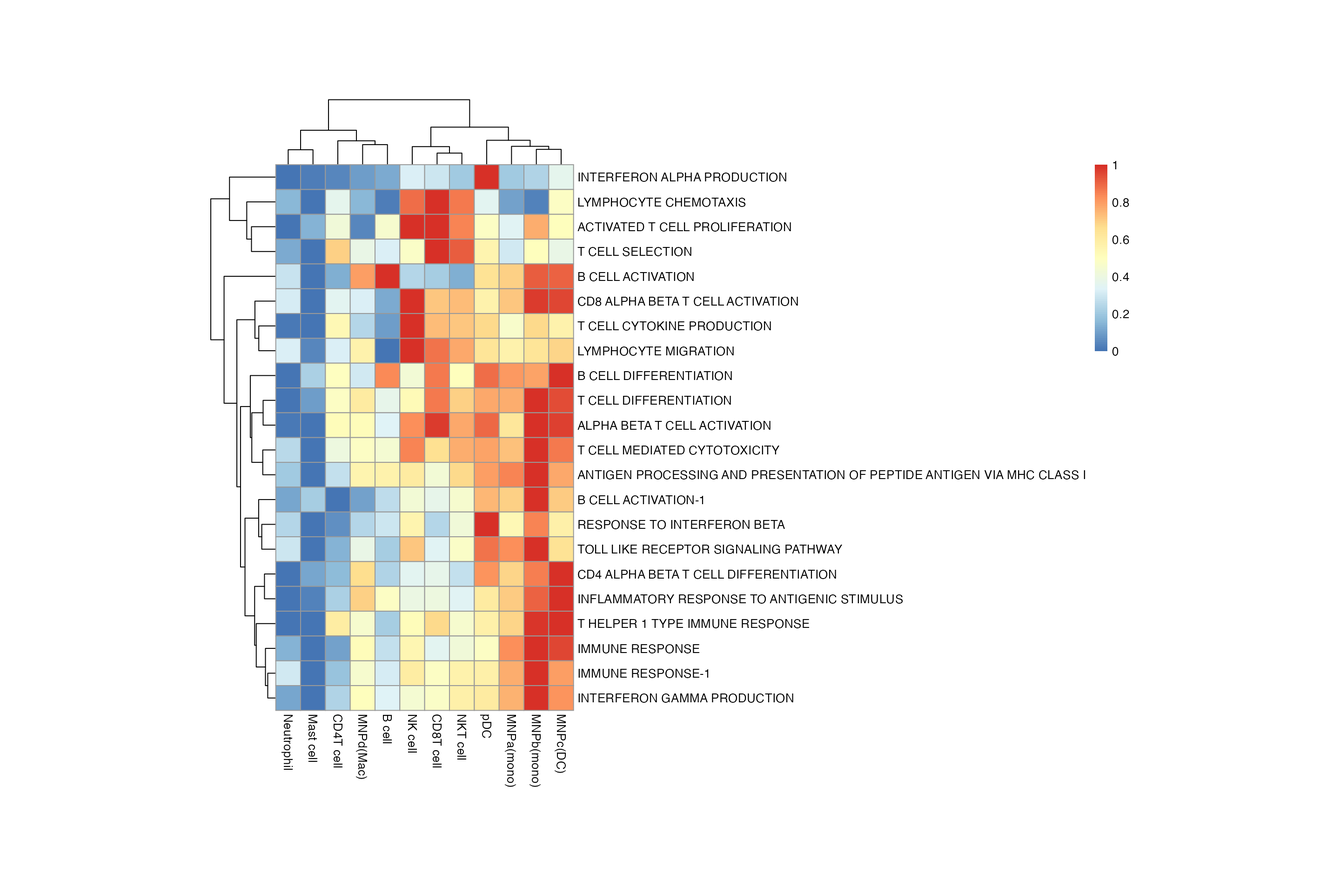
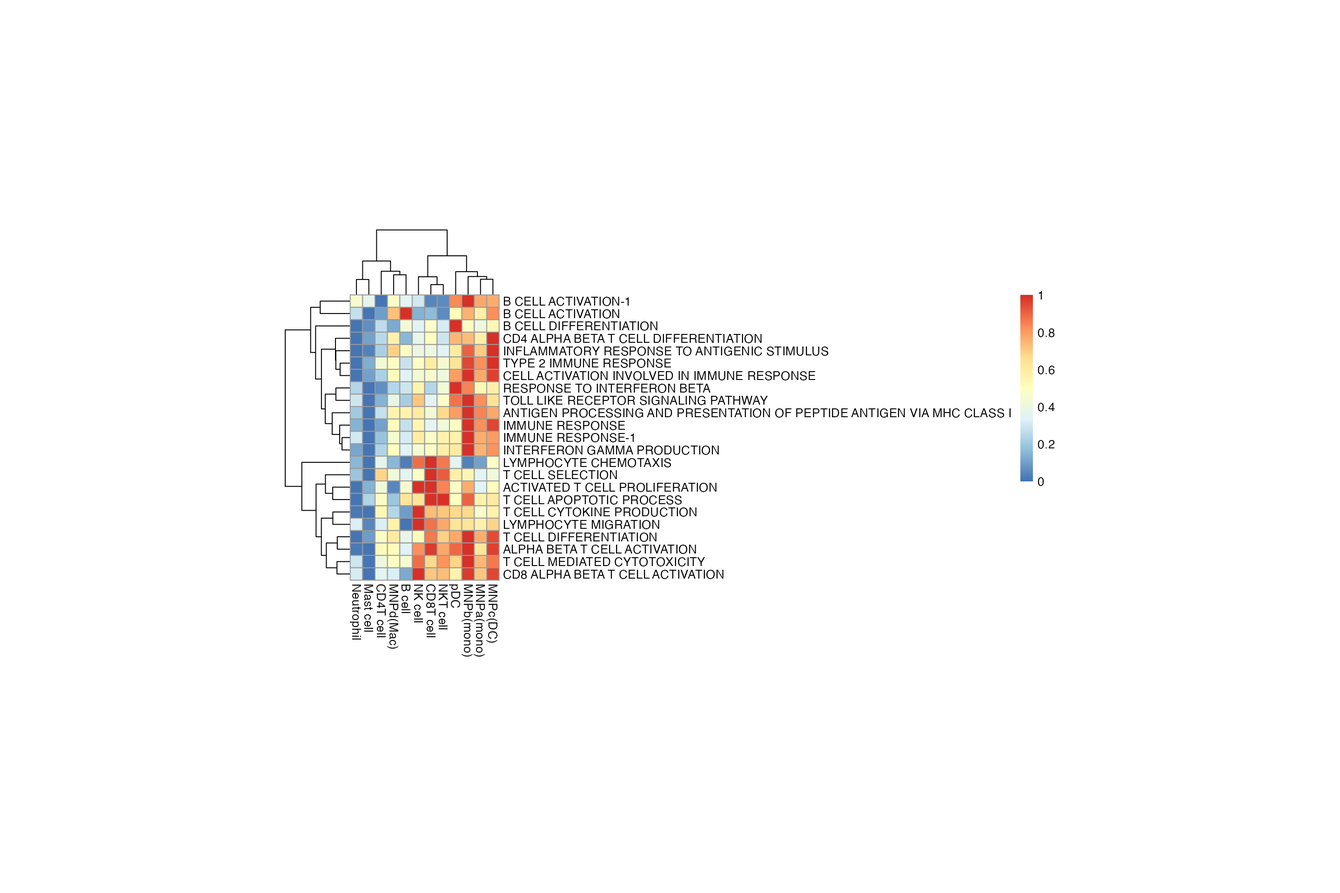
Built site for bowerbird: 0.0.2@0ba636c

Changed region(s): [[0.1562, 0.1562, 0.7812, 0.875], [0.8125, 0.1875, 0.8438, 0.4062], [0.5625, 0.3125, 0.5938, 0.3438]]

diff --git a/articles/bowerbird_vignette.html b/articles/bowerbird_vignette.html
@@ -127,161 +127,15 @@
 <div class="sourceCode" id="cb4"><pre class="downlit sourceCode r">
 <code class="sourceCode R"><span class="va">csv_file</span> <span class="op">&lt;-</span> <span class="fu"><a href="https://rdrr.io/r/base/system.file.html">system.file</a></span><span class="op">(</span><span class="st">"extdata"</span>, <span class="st">"h.all.v7.4.symbols.csv"</span>, package <span class="op">=</span> <span class="st">"bowerbird"</span><span class="op">)</span> <span class="co"># read in a .gmt file</span>
 <span class="va">csv</span> <span class="op">&lt;-</span> <span class="fu"><a href="https://rdrr.io/r/utils/read.table.html">read.csv</a></span><span class="op">(</span><span class="va">csv_file</span><span class="op">)</span>
-<span class="fu"><a href="https://rdrr.io/r/utils/head.html">head</a></span><span class="op">(</span><span class="va">csv</span><span class="op">)</span>
+<span class="co"># see first 6 rows of the first 3 columns</span>
+<span class="va">csv</span><span class="op">[</span><span class="fl">1</span><span class="op">:</span><span class="fl">6</span>, <span class="fl">1</span><span class="op">:</span><span class="fl">3</span><span class="op">]</span>
 <span class="co">#&gt;   HALLMARK_ADIPOGENESIS HALLMARK_ALLOGRAFT_REJECTION HALLMARK_ANDROGEN_RESPONSE</span>
 <span class="co">#&gt; 1                 ABCA1                        AARS1                      ABCC4</span>
 <span class="co">#&gt; 2                 ABCB8                        ABCE1                      ABHD2</span>
 <span class="co">#&gt; 3                 ACAA2                         ABI1                      ACSL3</span>
 <span class="co">#&gt; 4                 ACADL                         ACHE                      ACTN1</span>
 <span class="co">#&gt; 5                 ACADM                       ACVR2A                    ADAMTS1</span>
-<span class="co">#&gt; 6                 ACADS                         AKT1                      ADRM1</span>
-<span class="co">#&gt;   HALLMARK_ANGIOGENESIS HALLMARK_APICAL_JUNCTION HALLMARK_APICAL_SURFACE</span>
-<span class="co">#&gt; 1                  APOH                    ACTA1                  ADAM10</span>
-<span class="co">#&gt; 2                   APP                     ACTB                 ADIPOR2</span>
-<span class="co">#&gt; 3                 CCND2                    ACTC1                 AFAP1L2</span>
-<span class="co">#&gt; 4                COL3A1                    ACTG1                   AKAP7</span>
-<span class="co">#&gt; 5                COL5A2                    ACTG2                     APP</span>
-<span class="co">#&gt; 6                 CXCL6                    ACTN1                ATP6V0A4</span>
-<span class="co">#&gt;   HALLMARK_APOPTOSIS HALLMARK_BILE_ACID_METABOLISM</span>
-<span class="co">#&gt; 1               ADD1                         ABCA1</span>
-<span class="co">#&gt; 2              AIFM3                         ABCA2</span>
-<span class="co">#&gt; 3               ANKH                         ABCA3</span>
-<span class="co">#&gt; 4              ANXA1                         ABCA4</span>
-<span class="co">#&gt; 5                APP                         ABCA5</span>
-<span class="co">#&gt; 6               ATF3                         ABCA6</span>
-<span class="co">#&gt;   HALLMARK_CHOLESTEROL_HOMEOSTASIS HALLMARK_COAGULATION HALLMARK_COMPLEMENT</span>
-<span class="co">#&gt; 1                            ABCA2                  A2M               ACTN2</span>
-<span class="co">#&gt; 2                            ACAT2                ACOX2               ADAM9</span>
-<span class="co">#&gt; 3                            ACSS2                ADAM9              ADRA2B</span>
-<span class="co">#&gt; 4                            ACTG1                  ANG              AKAP10</span>
-<span class="co">#&gt; 5                             ADH4                ANXA1                 ANG</span>
-<span class="co">#&gt; 6                            ALCAM                APOA1               ANXA5</span>
-<span class="co">#&gt;   HALLMARK_DNA_REPAIR HALLMARK_E2F_TARGETS</span>
-<span class="co">#&gt; 1                AAAS                  AK2</span>
-<span class="co">#&gt; 2                 ADA               ANP32E</span>
-<span class="co">#&gt; 3               ADCY6                ASF1A</span>
-<span class="co">#&gt; 4               ADRM1                ASF1B</span>
-<span class="co">#&gt; 5                AGO4                ATAD2</span>
-<span class="co">#&gt; 6                 AK1                AURKA</span>
-<span class="co">#&gt;   HALLMARK_EPITHELIAL_MESENCHYMAL_TRANSITION HALLMARK_ESTROGEN_RESPONSE_EARLY</span>
-<span class="co">#&gt; 1                                     ABI3BP                             ABAT</span>
-<span class="co">#&gt; 2                                      ACTA2                            ABCA3</span>
-<span class="co">#&gt; 3                                     ADAM12                            ABHD2</span>
-<span class="co">#&gt; 4                                      ANPEP                           ABLIM1</span>
-<span class="co">#&gt; 5                                      APLP1                            ADCY1</span>
-<span class="co">#&gt; 6                                       AREG                            ADCY9</span>
-<span class="co">#&gt;   HALLMARK_ESTROGEN_RESPONSE_LATE HALLMARK_FATTY_ACID_METABOLISM</span>
-<span class="co">#&gt; 1                           ABCA3                          AADAT</span>
-<span class="co">#&gt; 2                           ABHD2                          ACAA1</span>
-<span class="co">#&gt; 3                           ACOX2                          ACAA2</span>
-<span class="co">#&gt; 4                            ADD3                          ACADL</span>
-<span class="co">#&gt; 5                            AFF1                          ACADM</span>
-<span class="co">#&gt; 6                            AGR2                          ACADS</span>
-<span class="co">#&gt;   HALLMARK_G2M_CHECKPOINT HALLMARK_GLYCOLYSIS HALLMARK_HEDGEHOG_SIGNALING</span>
-<span class="co">#&gt; 1                    ABL1               ABCB6                        ACHE</span>
-<span class="co">#&gt; 2                    AMD1             ADORA2B                      ADGRG1</span>
-<span class="co">#&gt; 3                  ARID4A                 AGL                        AMOT</span>
-<span class="co">#&gt; 4                    ATF5                AGRN                      CDK5R1</span>
-<span class="co">#&gt; 5                    ATRX                 AK3                        CDK6</span>
-<span class="co">#&gt; 6                   AURKA                 AK4                      CELSR1</span>
-<span class="co">#&gt;   HALLMARK_HEME_METABOLISM HALLMARK_HYPOXIA HALLMARK_IL2_STAT5_SIGNALING</span>
-<span class="co">#&gt; 1                    ABCB6            ACKR3                        ABCB1</span>
-<span class="co">#&gt; 2                    ABCG2              ADM                       ADAM19</span>
-<span class="co">#&gt; 3                    ACKR1          ADORA2B                         AGER</span>
-<span class="co">#&gt; 4                     ACP5              AK4                         AHCY</span>
-<span class="co">#&gt; 5                    ACSL6           AKAP12                        AHNAK</span>
-<span class="co">#&gt; 6                     ADD1            ALDOA                          AHR</span>
-<span class="co">#&gt;   HALLMARK_IL6_JAK_STAT3_SIGNALING HALLMARK_INFLAMMATORY_RESPONSE</span>
-<span class="co">#&gt; 1                              A2M                          ABCA1</span>
-<span class="co">#&gt; 2                           ACVR1B                           ABI1</span>
-<span class="co">#&gt; 3                           ACVRL1                         ACVR1B</span>
-<span class="co">#&gt; 4                             BAK1                         ACVR2A</span>
-<span class="co">#&gt; 5                              CBL                         ADGRE1</span>
-<span class="co">#&gt; 6                             CCL7                            ADM</span>
-<span class="co">#&gt;   HALLMARK_INTERFERON_ALPHA_RESPONSE HALLMARK_INTERFERON_GAMMA_RESPONSE</span>
-<span class="co">#&gt; 1                               ADAR                               ADAR</span>
-<span class="co">#&gt; 2                                B2M                              APOL6</span>
-<span class="co">#&gt; 3                              BATF2                             ARID5B</span>
-<span class="co">#&gt; 4                               BST2                              ARL4A</span>
-<span class="co">#&gt; 5                                C1S                              AUTS2</span>
-<span class="co">#&gt; 6                              CASP1                                B2M</span>
-<span class="co">#&gt;   HALLMARK_KRAS_SIGNALING_DN HALLMARK_KRAS_SIGNALING_UP</span>
-<span class="co">#&gt; 1                     ABCB11                      ABCB1</span>
-<span class="co">#&gt; 2                      ABCG4                        ACE</span>
-<span class="co">#&gt; 3                      ACTC1                     ADAM17</span>
-<span class="co">#&gt; 4                     ADRA2C                      ADAM8</span>
-<span class="co">#&gt; 5                    AKR1B10                   ADAMDEC1</span>
-<span class="co">#&gt; 6                    ALOX12B                     ADGRA2</span>
-<span class="co">#&gt;   HALLMARK_MITOTIC_SPINDLE HALLMARK_MTORC1_SIGNALING HALLMARK_MYC_TARGETS_V1</span>
-<span class="co">#&gt; 1                     ABI1                     ABCF2                   ABCE1</span>
-<span class="co">#&gt; 2                     ABL1                     ACACA                    ACP1</span>
-<span class="co">#&gt; 3                      ABR                      ACLY                   AIMP2</span>
-<span class="co">#&gt; 4                    ACTN4                     ACSL3                   AP3S1</span>
-<span class="co">#&gt; 5                   AKAP13                     ACTR2                   APEX1</span>
-<span class="co">#&gt; 6                    ALMS1                     ACTR3                    BUB3</span>
-<span class="co">#&gt;   HALLMARK_MYC_TARGETS_V2 HALLMARK_MYOGENESIS HALLMARK_NOTCH_SIGNALING</span>
-<span class="co">#&gt; 1                   AIMP2              ABLIM1                    APH1A</span>
-<span class="co">#&gt; 2                    BYSL                ACHE                    ARRB1</span>
-<span class="co">#&gt; 3                    CBX3               ACSL1                    CCND1</span>
-<span class="co">#&gt; 4                    CDK4               ACTA1                     CUL1</span>
-<span class="co">#&gt; 5                  DCTPP1               ACTC1                     DLL1</span>
-<span class="co">#&gt; 6                   DDX18               ACTN2                     DTX1</span>
-<span class="co">#&gt;   HALLMARK_OXIDATIVE_PHOSPHORYLATION HALLMARK_P53_PATHWAY</span>
-<span class="co">#&gt; 1                              ABCB7                 ABAT</span>
-<span class="co">#&gt; 2                              ACAA1                ABCC5</span>
-<span class="co">#&gt; 3                              ACAA2                ABHD4</span>
-<span class="co">#&gt; 4                              ACADM               ACVR1B</span>
-<span class="co">#&gt; 5                             ACADSB                  ADA</span>
-<span class="co">#&gt; 6                             ACADVL                  AEN</span>
-<span class="co">#&gt;   HALLMARK_PANCREAS_BETA_CELLS HALLMARK_PEROXISOME</span>
-<span class="co">#&gt; 1                        ABCC8               ABCB1</span>
-<span class="co">#&gt; 2                         AKT3               ABCB4</span>
-<span class="co">#&gt; 3                         CHGA               ABCB9</span>
-<span class="co">#&gt; 4                          DCX               ABCC5</span>
-<span class="co">#&gt; 5                         DPP4               ABCC8</span>
-<span class="co">#&gt; 6                         ELP4               ABCD1</span>
-<span class="co">#&gt;   HALLMARK_PI3K_AKT_MTOR_SIGNALING HALLMARK_PROTEIN_SECRETION</span>
-<span class="co">#&gt; 1                            ACACA                      ABCA1</span>
-<span class="co">#&gt; 2                            ACTR2                     ADAM10</span>
-<span class="co">#&gt; 3                            ACTR3                     ANP32E</span>
-<span class="co">#&gt; 4                            ADCY2                      AP1G1</span>
-<span class="co">#&gt; 5                             AKT1                      AP2B1</span>
-<span class="co">#&gt; 6                           AKT1S1                      AP2M1</span>
-<span class="co">#&gt;   HALLMARK_REACTIVE_OXYGEN_SPECIES_PATHWAY HALLMARK_SPERMATOGENESIS</span>
-<span class="co">#&gt; 1                                    ABCC1                      ACE</span>
-<span class="co">#&gt; 2                                    ATOX1                    ACRBP</span>
-<span class="co">#&gt; 3                                      CAT                    ACRV1</span>
-<span class="co">#&gt; 4                                   CDKN2D                   ACTL7B</span>
-<span class="co">#&gt; 5                                    EGLN2                    ADAD1</span>
-<span class="co">#&gt; 6                                    ERCC2                    ADAM2</span>
-<span class="co">#&gt;   HALLMARK_TGF_BETA_SIGNALING HALLMARK_TNFA_SIGNALING_VIA_NFKB</span>
-<span class="co">#&gt; 1                       ACVR1                            ABCA1</span>
-<span class="co">#&gt; 2                         APC                            ACKR3</span>
-<span class="co">#&gt; 3                      ARID4B                             AREG</span>
-<span class="co">#&gt; 4                       BCAR3                             ATF3</span>
-<span class="co">#&gt; 5                        BMP2                           ATP2B1</span>
-<span class="co">#&gt; 6                      BMPR1A                          B4GALT1</span>
-<span class="co">#&gt;   HALLMARK_UNFOLDED_PROTEIN_RESPONSE HALLMARK_UV_RESPONSE_DN</span>
-<span class="co">#&gt; 1                           ALDH18A1                   ABCC1</span>
-<span class="co">#&gt; 2                            ARFGAP1                  ACVR2A</span>
-<span class="co">#&gt; 3                               ASNS                    ADD3</span>
-<span class="co">#&gt; 4                               ATF3                  ADGRL2</span>
-<span class="co">#&gt; 5                               ATF4                 ADORA2B</span>
-<span class="co">#&gt; 6                               ATF6                   AGGF1</span>
-<span class="co">#&gt;   HALLMARK_UV_RESPONSE_UP HALLMARK_WNT_BETA_CATENIN_SIGNALING</span>
-<span class="co">#&gt; 1                   ABCB1                              ADAM17</span>
-<span class="co">#&gt; 2                   ACAA1                               AXIN1</span>
-<span class="co">#&gt; 3                    AGO2                               AXIN2</span>
-<span class="co">#&gt; 4                   ALAS1                               CCND2</span>
-<span class="co">#&gt; 5                   ALDOA                              CSNK1E</span>
-<span class="co">#&gt; 6                    AMD1                              CTNNB1</span>
-<span class="co">#&gt;   HALLMARK_XENOBIOTIC_METABOLISM Unnamed..50</span>
-<span class="co">#&gt; 1                          ABCC2          NA</span>
-<span class="co">#&gt; 2                          ABCC3          NA</span>
-<span class="co">#&gt; 3                          ABCD2          NA</span>
-<span class="co">#&gt; 4                          ABHD6          NA</span>
-<span class="co">#&gt; 5                           ACO2          NA</span>
-<span class="co">#&gt; 6                          ACOX1          NA</span></code></pre></div>
+<span class="co">#&gt; 6                 ACADS                         AKT1                      ADRM1</span></code></pre></div>
 <p>And now to process it through.</p>
 <div class="sourceCode" id="cb5"><pre class="downlit sourceCode r">
 <code class="sourceCode R"><span class="va">bwr</span> <span class="op">&lt;-</span> <span class="fu">bower</span><span class="op">(</span><span class="va">csv</span><span class="op">)</span>
@@ -306,12 +160,12 @@
 <span class="va">bwr</span> <span class="op">&lt;-</span> <span class="fu"><a href="../reference/snn_graph.html">snn_graph</a></span><span class="op">(</span><span class="va">bwr</span><span class="op">)</span>
 <span class="va">bwr</span> <span class="op">&lt;-</span> <span class="fu"><a href="../reference/find_clusters.html">find_clusters</a></span><span class="op">(</span><span class="va">bwr</span><span class="op">)</span>
 <span class="va">bwr</span> <span class="op">&lt;-</span> <span class="fu"><a href="../reference/summarize_clusters.html">summarize_clusters</a></span><span class="op">(</span><span class="va">bwr</span><span class="op">)</span>
-<span class="co">#&gt; Downloading udpipe model from https://raw.githubusercontent.com/jwijffels/udpipe.models.ud.2.5/master/inst/udpipe-ud-2.5-191206/english-ewt-ud-2.5-191206.udpipe to /var/folders/24/8k48jl6d249_n_qfxwsl6xvm0000gn/T//RtmpHrdq2m/english-ewt-ud-2.5-191206.udpipe</span>
+<span class="co">#&gt; Downloading udpipe model from https://raw.githubusercontent.com/jwijffels/udpipe.models.ud.2.5/master/inst/udpipe-ud-2.5-191206/english-ewt-ud-2.5-191206.udpipe to /var/folders/24/8k48jl6d249_n_qfxwsl6xvm0000gn/T//RtmpzwTUrr/english-ewt-ud-2.5-191206.udpipe</span>
 <span class="co">#&gt;  - This model has been trained on version 2.5 of data from https://universaldependencies.org</span>
 <span class="co">#&gt;  - The model is distributed under the CC-BY-SA-NC license: https://creativecommons.org/licenses/by-nc-sa/4.0</span>
 <span class="co">#&gt;  - Visit https://github.com/jwijffels/udpipe.models.ud.2.5 for model license details.</span>
 <span class="co">#&gt;  - For a list of all models and their licenses (most models you can download with this package have either a CC-BY-SA or a CC-BY-SA-NC license) read the documentation at ?udpipe_download_model. For building your own models: visit the documentation by typing vignette('udpipe-train', package = 'udpipe')</span>
-<span class="co">#&gt; Downloading finished, model stored at '/var/folders/24/8k48jl6d249_n_qfxwsl6xvm0000gn/T//RtmpHrdq2m/english-ewt-ud-2.5-191206.udpipe'</span></code></pre></div>
+<span class="co">#&gt; Downloading finished, model stored at '/var/folders/24/8k48jl6d249_n_qfxwsl6xvm0000gn/T//RtmpzwTUrr/english-ewt-ud-2.5-191206.udpipe'</span></code></pre></div>
 <p>Or extracting from <code>msigdbr</code>.</p>
 <div class="sourceCode" id="cb7"><pre class="downlit sourceCode r">
 <code class="sourceCode R"><span class="kw"><a href="https://rdrr.io/r/base/library.html">library</a></span><span class="op">(</span><span class="va"><a href="https://igordot.github.io/msigdbr/">msigdbr</a></span><span class="op">)</span>
@@ -327,53 +181,54 @@
 <span class="va">bwr</span> <span class="op">&lt;-</span> <span class="fu"><a href="../reference/snn_graph.html">snn_graph</a></span><span class="op">(</span><span class="va">bwr</span><span class="op">)</span>
 <span class="va">bwr</span> <span class="op">&lt;-</span> <span class="fu"><a href="../reference/find_clusters.html">find_clusters</a></span><span class="op">(</span><span class="va">bwr</span><span class="op">)</span>
 <span class="va">bwr</span> <span class="op">&lt;-</span> <span class="fu"><a href="../reference/summarize_clusters.html">summarize_clusters</a></span><span class="op">(</span><span class="va">bwr</span><span class="op">)</span>
-<span class="co">#&gt; Downloading udpipe model from https://raw.githubusercontent.com/jwijffels/udpipe.models.ud.2.5/master/inst/udpipe-ud-2.5-191206/english-ewt-ud-2.5-191206.udpipe to /var/folders/24/8k48jl6d249_n_qfxwsl6xvm0000gn/T//RtmpHrdq2m/english-ewt-ud-2.5-191206.udpipe</span>
+<span class="co">#&gt; Downloading udpipe model from https://raw.githubusercontent.com/jwijffels/udpipe.models.ud.2.5/master/inst/udpipe-ud-2.5-191206/english-ewt-ud-2.5-191206.udpipe to /var/folders/24/8k48jl6d249_n_qfxwsl6xvm0000gn/T//RtmpzwTUrr/english-ewt-ud-2.5-191206.udpipe</span>
 <span class="co">#&gt;  - This model has been trained on version 2.5 of data from https://universaldependencies.org</span>
 <span class="co">#&gt;  - The model is distributed under the CC-BY-SA-NC license: https://creativecommons.org/licenses/by-nc-sa/4.0</span>
 <span class="co">#&gt;  - Visit https://github.com/jwijffels/udpipe.models.ud.2.5 for model license details.</span>
 <span class="co">#&gt;  - For a list of all models and their licenses (most models you can download with this package have either a CC-BY-SA or a CC-BY-SA-NC license) read the documentation at ?udpipe_download_model. For building your own models: visit the documentation by typing vignette('udpipe-train', package = 'udpipe')</span>
-<span class="co">#&gt; Downloading finished, model stored at '/var/folders/24/8k48jl6d249_n_qfxwsl6xvm0000gn/T//RtmpHrdq2m/english-ewt-ud-2.5-191206.udpipe'</span></code></pre></div>
+<span class="co">#&gt; Downloading finished, model stored at '/var/folders/24/8k48jl6d249_n_qfxwsl6xvm0000gn/T//RtmpzwTUrr/english-ewt-ud-2.5-191206.udpipe'</span></code></pre></div>
 <p>So what has actually happened? Well, basically <code>bowerbird</code> has learnt which gene sets share more genes with each other, clustered them together and learnt a new summary term.</p>
 <div class="sourceCode" id="cb8"><pre class="downlit sourceCode r">
 <code class="sourceCode R"><span class="va">bwr</span>
 <span class="co">#&gt; BOWER class</span>
 <span class="co">#&gt; number of genesets:  265 </span>
 <span class="co">#&gt; genesets kNN Graph: </span>
-<span class="co">#&gt; IGRAPH 4dc82b9 UNW- 265 843 -- </span>
+<span class="co">#&gt; IGRAPH 065b388 UNW- 265 843 -- </span>
 <span class="co">#&gt; + attr: name (v/c), cluster (v/n), geneset_size (v/n), terms (v/c),</span>
 <span class="co">#&gt; | labels (v/c), weight (e/n)</span>
-<span class="co">#&gt; + edges from 4dc82b9 (vertex names):</span>
+<span class="co">#&gt; + edges from 065b388 (vertex names):</span>
 <span class="co">#&gt; [1] GOBP_ACTIVATED_T_CELL_PROLIFERATION--GOBP_CD8_POSITIVE_ALPHA_BETA_T_CELL_DIFFERENTIATION          </span>
 <span class="co">#&gt; [2] GOBP_ACTIVATED_T_CELL_PROLIFERATION--GOBP_NEGATIVE_REGULATION_OF_ACTIVATED_T_CELL_PROLIFERATION   </span>
 <span class="co">#&gt; [3] GOBP_ACTIVATED_T_CELL_PROLIFERATION--GOBP_NEGATIVE_REGULATION_OF_LYMPHOCYTE_DIFFERENTIATION       </span>
 <span class="co">#&gt; [4] GOBP_ACTIVATED_T_CELL_PROLIFERATION--GOBP_NEGATIVE_REGULATION_OF_T_CELL_RECEPTOR_SIGNALING_PATHWAY</span>
 <span class="co">#&gt; [5] GOBP_ACTIVATION_OF_IMMUNE_RESPONSE --GOBP_ACTIVATION_OF_INNATE_IMMUNE_RESPONSE                    </span>
 <span class="co">#&gt; + ... omitted several edges</span>
-<span class="co">#&gt; number of geneset clusters:  22 </span>
+<span class="co">#&gt; number of geneset clusters:  23 </span>
 <span class="co">#&gt; Core genes:</span>
 <span class="co">#&gt;  First six genes shown</span>
 <span class="co">#&gt;   IMMUNE RESPONSE-1 : AIM2 BCL10 BTRC CARD11 CARD9 CD209 ...</span>
-<span class="co">#&gt;   CD4 ALPHA BETA T CELL DIFFERENTIATION : ANXA1 ATP7A BATF BCL3 BCL6 CBFB ...</span>
+<span class="co">#&gt;   TYPE 2 IMMUNE RESPONSE : IL4 PLCL2 TLR4 IL18 IL18R1 IL4R ...</span>
 <span class="co">#&gt;   IMMUNE RESPONSE : CLNK HLA-E HLA-F IFNA2 IFNB1 IL18 ...</span>
-<span class="co">#&gt;   T CELL MEDIATED CYTOTOXICITY : HLA-A HLA-B HLA-C HLA-E HLA-F HLA-G ...</span>
-<span class="co">#&gt;   B CELL ACTIVATION-1 : ADA BAX BCL6 BLK BTK CD74 ...</span>
 <span class="co">#&gt;   RESPONSE TO INTERFERON BETA : BCL2L11 HIF1A MEF2C ADA SOS1 SOS2 ...</span>
+<span class="co">#&gt;   T CELL MEDIATED CYTOTOXICITY : HLA-A HLA-B HLA-C HLA-E HLA-F HLA-G ...</span>
 <span class="co">#&gt;   CD8 ALPHA BETA T CELL ACTIVATION : HLA-E GATA3 ADCYAP1 BTK C3 CCR7 ...</span>
+<span class="co">#&gt;   CD4 ALPHA BETA T CELL DIFFERENTIATION : ANXA1 ATP7A BATF BCL3 BCL6 CBFB ...</span>
 <span class="co">#&gt;   T CELL DIFFERENTIATION : FCGR2B FGL2 HLA-DOA LILRB2 THBS1 BMP4 ...</span>
 <span class="co">#&gt;   INTERFERON GAMMA PRODUCTION : ABCB9 ACE ACTR10 ACTR1A ACTR1B AP1B1 ...</span>
-<span class="co">#&gt;   T HELPER 1 TYPE IMMUNE RESPONSE : BATF FOXP3 IL6 TBX21 BCL6 IL2 ...</span>
-<span class="co">#&gt;   INTERFERON ALPHA PRODUCTION : IL18 IL18R1 IL4 TLR4 SYK IL13 ...</span>
 <span class="co">#&gt;   TOLL LIKE RECEPTOR SIGNALING PATHWAY : CACTIN PTPRS TICAM1 TLR3 TLR4 TLR9 ...</span>
 <span class="co">#&gt;   T CELL CYTOKINE PRODUCTION : KLRC1 LILRB1 NOD2 PTPRC EGR3 LEF1 ...</span>
-<span class="co">#&gt;   B CELL ACTIVATION : ADA ADAM17 BATF BCL3 BCL6 BTK ...</span>
-<span class="co">#&gt;   ACTIVATED T CELL PROLIFERATION : LILRB4 CD24 CD274 FYN HHLA2 ICOSLG ...</span>
+<span class="co">#&gt;   B CELL ACTIVATION-1 : ADA BAX BCL6 BLK BTK CD74 ...</span>
+<span class="co">#&gt;   B CELL DIFFERENTIATION : IL10 TLR9 SYK ADA BCL3 C17orf99 ...</span>
 <span class="co">#&gt;   LYMPHOCYTE CHEMOTAXIS : CCL2 CCL3 CCL4 CCL5 CCL7 CXCL14 ...</span>
+<span class="co">#&gt;   ACTIVATED T CELL PROLIFERATION : LILRB4 CD24 CD274 FYN HHLA2 ICOSLG ...</span>
+<span class="co">#&gt;   B CELL ACTIVATION : BATF BCL3 BCL6 BTK C17orf99 CCR6 ...</span>
+<span class="co">#&gt;   T CELL SELECTION : TOX BCL2 BATF CTSL FOXP3 IL12B ...</span>
 <span class="co">#&gt;   ALPHA BETA T CELL ACTIVATION : AGER ANXA1 ARG2 ATP7A BATF BCL3 ...</span>
 <span class="co">#&gt;   INFLAMMATORY RESPONSE TO ANTIGENIC STIMULUS : BTK C3 CD28 HLA-E LTA NOD2 ...</span>
-<span class="co">#&gt;   T CELL SELECTION : PTPRC TOX RABL3 STAT5B ZBTB1 IL15 ...</span>
-<span class="co">#&gt;   ANTIGEN PROCESSING AND PRESENTATION OF PEPTIDE ANTIGEN VIA MHC CLASS I : ABCB9 AZGP1 B2M ERAP1 ERAP2 HFE ...</span>
+<span class="co">#&gt;   T CELL APOPTOTIC PROCESS : ADA AKT1 BAK1 BAX BCL10 BCL2L11 ...</span>
 <span class="co">#&gt;   LYMPHOCYTE MIGRATION : ADAM10 ADAM17 ADAM8 AIF1 APP CCL20 ...</span>
-<span class="co">#&gt;   B CELL DIFFERENTIATION : ADA BCL3 C17orf99 CD19 CDH17 CMTM7 ...</span></code></pre></div>
+<span class="co">#&gt;   ANTIGEN PROCESSING AND PRESENTATION OF PEPTIDE ANTIGEN VIA MHC CLASS I : ABCB9 AZGP1 B2M ERAP1 ERAP2 HFE ...</span>
+<span class="co">#&gt;   CELL ACTIVATION INVOLVED IN IMMUNE RESPONSE : ABL1 ADA ANXA1 AP1G1 APBB1IP ATP7A ...</span></code></pre></div>
 <p>We can visualise it with a simple plot</p>
 <div class="sourceCode" id="cb9"><pre class="downlit sourceCode r">
 <code class="sourceCode R"><span class="kw"><a href="https://rdrr.io/r/base/library.html">library</a></span><span class="op">(</span><span class="va"><a href="https://ggraph.data-imaginist.com">ggraph</a></span><span class="op">)</span>
@@ -426,7 +281,7 @@
     <span class="fu"><a href="https://ggplot2.tidyverse.org/reference/theme.html">theme</a></span><span class="op">(</span>plot.title <span class="op">=</span> <span class="fu"><a href="https://ggplot2.tidyverse.org/reference/element.html">element_text</a></span><span class="op">(</span>size <span class="op">=</span> <span class="fl">8</span>, face <span class="op">=</span> <span class="st">"bold"</span><span class="op">)</span><span class="op">)</span>
 <span class="op">}</span><span class="op">)</span>
 <span class="fu"><a href="https://rdrr.io/r/base/names.html">names</a></span><span class="op">(</span><span class="va">plot_list</span><span class="op">)</span> <span class="op">&lt;-</span> <span class="fu"><a href="https://rdrr.io/r/base/colnames.html">colnames</a></span><span class="op">(</span><span class="va">bwr</span><span class="op">@</span><span class="va">scores</span><span class="op">)</span>
-<span class="fu">cowplot</span><span class="fu">::</span><span class="fu"><a href="https://wilkelab.org/cowplot/reference/plot_grid.html">plot_grid</a></span><span class="op">(</span>plotlist <span class="op">=</span> <span class="va">plot_list</span>, scale <span class="op">=</span> <span class="fl">0.9</span>, ncol <span class="op">=</span> <span class="fl">3</span><span class="op">)</span></code></pre></div>
+<span class="fu">cowplot</span><span class="fu">::</span><span class="fu"><a href="https://wilkelab.org/cowplot/reference/plot_grid.html">plot_grid</a></span><span class="op">(</span>plotlist <span class="op">=</span> <span class="va">plot_list</span>, scale <span class="op">=</span> <span class="fl">0.9</span><span class="op">)</span></code></pre></div>
 <p><img src="bowerbird_vignette_files/figure-html/unnamed-chunk-13-1.png" width="2880"></p>
 </div>
 <div id="running-fgsea-on-deg-tables-in-a-list-as-an-alternative-to-the-single-cell-methods-" class="section level2">
@@ -456,7 +311,7 @@
     <span class="fu"><a href="https://ggplot2.tidyverse.org/reference/labs.html">ggtitle</a></span><span class="op">(</span><span class="va">ds</span><span class="op">)</span> <span class="op">+</span> <span class="fu"><a href="https://ggplot2.tidyverse.org/reference/theme.html">theme</a></span><span class="op">(</span>legend.position <span class="op">=</span> <span class="st">'none'</span>, plot.title <span class="op">=</span> <span class="fu"><a href="https://ggplot2.tidyverse.org/reference/element.html">element_text</a></span><span class="op">(</span>size <span class="op">=</span> <span class="fl">8</span>, face <span class="op">=</span> <span class="st">"bold"</span><span class="op">)</span><span class="op">)</span>
 <span class="op">}</span><span class="op">)</span>
 <span class="fu"><a href="https://rdrr.io/r/base/names.html">names</a></span><span class="op">(</span><span class="va">plot_list</span><span class="op">)</span> <span class="op">&lt;-</span> <span class="fu"><a href="https://rdrr.io/r/base/colnames.html">colnames</a></span><span class="op">(</span><span class="va">bwr</span><span class="op">@</span><span class="va">scores</span><span class="op">$</span><span class="va">NES</span><span class="op">)</span>
-<span class="fu">cowplot</span><span class="fu">::</span><span class="fu"><a href="https://wilkelab.org/cowplot/reference/plot_grid.html">plot_grid</a></span><span class="op">(</span>plotlist <span class="op">=</span> <span class="va">plot_list</span>, scale <span class="op">=</span> <span class="fl">0.9</span>, ncol <span class="op">=</span> <span class="fl">3</span><span class="op">)</span></code></pre></div>
+<span class="fu">cowplot</span><span class="fu">::</span><span class="fu"><a href="https://wilkelab.org/cowplot/reference/plot_grid.html">plot_grid</a></span><span class="op">(</span>plotlist <span class="op">=</span> <span class="va">plot_list</span>, scale <span class="op">=</span> <span class="fl">0.9</span><span class="op">)</span></code></pre></div>
 <p><img src="bowerbird_vignette_files/figure-html/unnamed-chunk-15-1.png" width="2880"></p>
 <p>Coloured by normalized enrichment score.</p>
 <div class="sourceCode" id="cb15"><pre class="downlit sourceCode r">
@@ -476,7 +331,7 @@
     <span class="fu"><a href="https://ggplot2.tidyverse.org/reference/labs.html">ggtitle</a></span><span class="op">(</span><span class="va">ds</span><span class="op">)</span> <span class="op">+</span> <span class="fu"><a href="https://ggplot2.tidyverse.org/reference/theme.html">theme</a></span><span class="op">(</span>legend.position <span class="op">=</span> <span class="st">'none'</span>, plot.title <span class="op">=</span> <span class="fu"><a href="https://ggplot2.tidyverse.org/reference/element.html">element_text</a></span><span class="op">(</span>size <span class="op">=</span> <span class="fl">8</span>, face <span class="op">=</span> <span class="st">"bold"</span><span class="op">)</span><span class="op">)</span>
 <span class="op">}</span><span class="op">)</span>
 <span class="fu"><a href="https://rdrr.io/r/base/names.html">names</a></span><span class="op">(</span><span class="va">plot_list</span><span class="op">)</span> <span class="op">&lt;-</span> <span class="fu"><a href="https://rdrr.io/r/base/colnames.html">colnames</a></span><span class="op">(</span><span class="va">bwr</span><span class="op">@</span><span class="va">scores</span><span class="op">$</span><span class="va">NES</span><span class="op">)</span>
-<span class="fu">cowplot</span><span class="fu">::</span><span class="fu"><a href="https://wilkelab.org/cowplot/reference/plot_grid.html">plot_grid</a></span><span class="op">(</span>plotlist <span class="op">=</span> <span class="va">plot_list</span>, scale <span class="op">=</span> <span class="fl">0.9</span>, ncol <span class="op">=</span> <span class="fl">3</span><span class="op">)</span></code></pre></div>
+<span class="fu">cowplot</span><span class="fu">::</span><span class="fu"><a href="https://wilkelab.org/cowplot/reference/plot_grid.html">plot_grid</a></span><span class="op">(</span>plotlist <span class="op">=</span> <span class="va">plot_list</span>, scale <span class="op">=</span> <span class="fl">0.9</span><span class="op">)</span></code></pre></div>
 <p><img src="bowerbird_vignette_files/figure-html/unnamed-chunk-16-1.png" width="2880"></p>
 </div>
 <div id="using-core-genes-for-enrichment" class="section level2">
@@ -485,12 +340,12 @@
 <p>Same function as above, just specifying <code>core = TRUE</code>. This will grab the intersecting (or outersecting rather) genes in a gene set cluster and perform the enrichment, like a summary gene set of the summarised terms.</p>
 <div class="sourceCode" id="cb16"><pre class="downlit sourceCode r">
 <code class="sourceCode R"><span class="va">bwr</span> <span class="op">&lt;-</span> <span class="fu"><a href="../reference/enrich_genesets.html">enrich_genesets</a></span><span class="op">(</span><span class="va">kidneyimmune</span>, <span class="va">bwr</span>, core <span class="op">=</span> <span class="cn">TRUE</span>, groupby <span class="op">=</span> <span class="st">'celltype'</span><span class="op">)</span> <span class="co"># if mode is not specified, the default option is to use AUCell</span>
-<span class="fu">pheatmap</span><span class="fu">::</span><span class="fu"><a href="https://rdrr.io/pkg/pheatmap/man/pheatmap.html">pheatmap</a></span><span class="op">(</span><span class="va">bwr</span><span class="op">@</span><span class="va">scores</span>, cellheight <span class="op">=</span> <span class="fl">20</span>, cellwidth <span class="op">=</span> <span class="fl">20</span><span class="op">)</span></code></pre></div>
+<span class="fu">pheatmap</span><span class="fu">::</span><span class="fu"><a href="https://rdrr.io/pkg/pheatmap/man/pheatmap.html">pheatmap</a></span><span class="op">(</span><span class="va">bwr</span><span class="op">@</span><span class="va">scores</span>, cellheight <span class="op">=</span> <span class="fl">10</span>, cellwidth <span class="op">=</span> <span class="fl">10</span><span class="op">)</span></code></pre></div>
 <p><img src="bowerbird_vignette_files/figure-html/unnamed-chunk-17-1.png" width="1440"></p>
 <p>Same for the gsea results.</p>
 <div class="sourceCode" id="cb17"><pre class="downlit sourceCode r">
 <code class="sourceCode R"><span class="va">bwr</span> <span class="op">&lt;-</span> <span class="fu"><a href="../reference/enrich_genesets.html">enrich_genesets</a></span><span class="op">(</span><span class="va">degs</span>, <span class="va">bwr</span>, core <span class="op">=</span> <span class="cn">TRUE</span>, gene_symbol <span class="op">=</span> <span class="st">'gene'</span>, logfoldchanges <span class="op">=</span> <span class="st">'avg_log2FC'</span>,  pvals <span class="op">=</span> <span class="st">'p_val'</span><span class="op">)</span>
-<span class="fu">pheatmap</span><span class="fu">::</span><span class="fu"><a href="https://rdrr.io/pkg/pheatmap/man/pheatmap.html">pheatmap</a></span><span class="op">(</span><span class="va">bwr</span><span class="op">@</span><span class="va">scores</span><span class="op">$</span><span class="va">NES</span>, cellheight <span class="op">=</span> <span class="fl">20</span>, cellwidth <span class="op">=</span> <span class="fl">20</span><span class="op">)</span></code></pre></div>
+<span class="fu">pheatmap</span><span class="fu">::</span><span class="fu"><a href="https://rdrr.io/pkg/pheatmap/man/pheatmap.html">pheatmap</a></span><span class="op">(</span><span class="va">bwr</span><span class="op">@</span><span class="va">scores</span><span class="op">$</span><span class="va">NES</span>, cellheight <span class="op">=</span> <span class="fl">10</span>, cellwidth <span class="op">=</span> <span class="fl">10</span><span class="op">)</span></code></pre></div>
 <p><img src="bowerbird_vignette_files/figure-html/unnamed-chunk-18-1.png" width="1440"></p>
 <p>To visualise as a graph, can consider doing:</p>
 <div class="sourceCode" id="cb18"><pre class="downlit sourceCode r">
